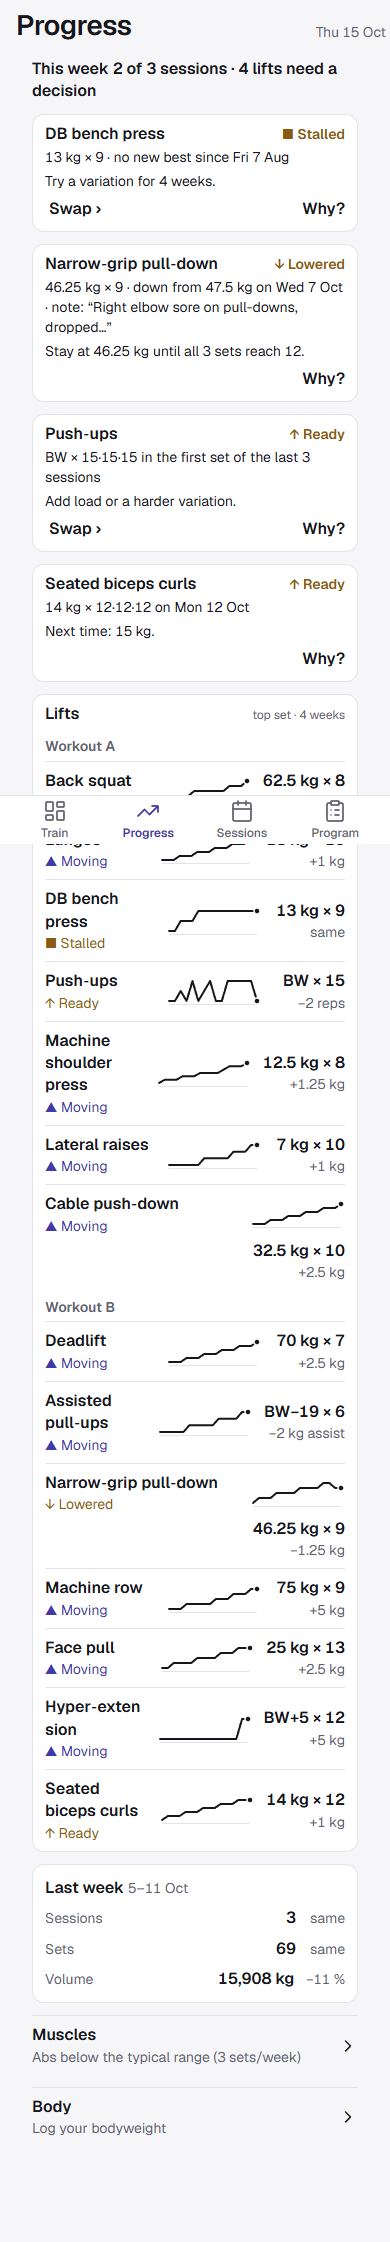
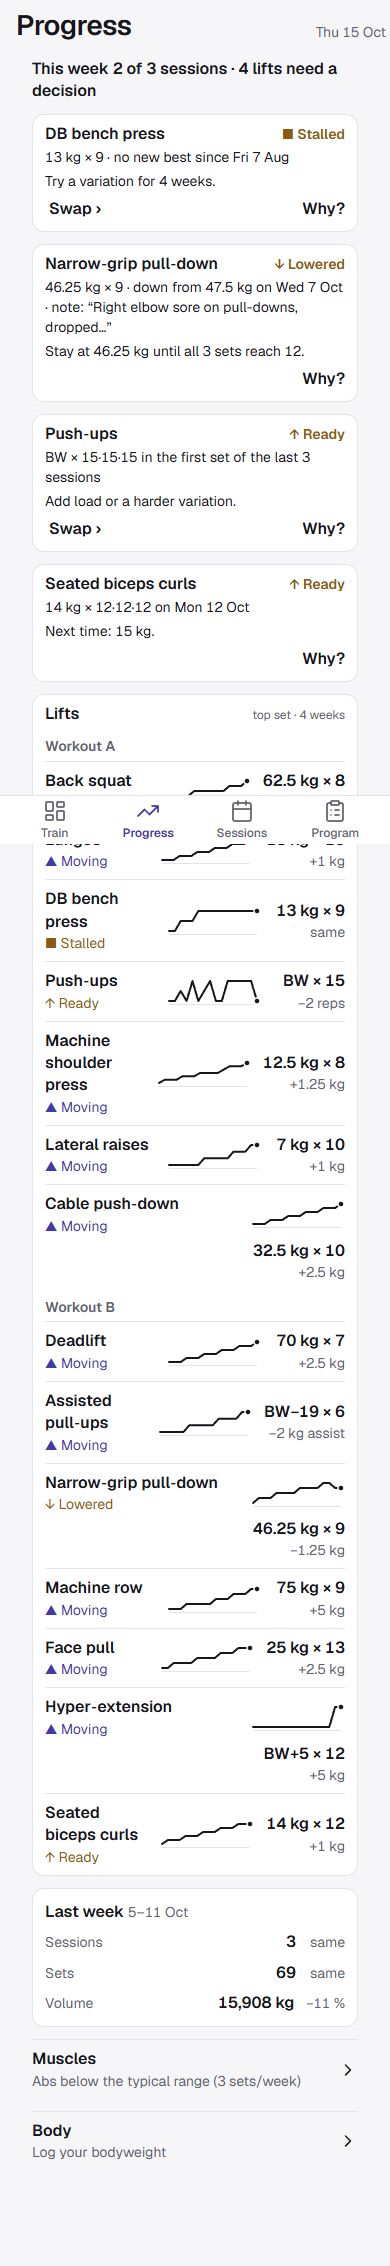
ux(v6): a lift name in the Lifts list never breaks inside a word

diff --git a/src/features/progress/Home.css b/src/features/progress/Home.css
@@ -421,7 +421,7 @@
 .progress-lifts .progress-row-main,
 .progress-all .progress-row-main {
   flex: 1 1 5.5em;
-  min-width: 5.5em;
+  min-width: min-content;
 }
 
 .progress-lifts .progress-row-numbers,
